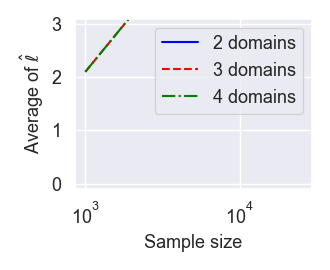
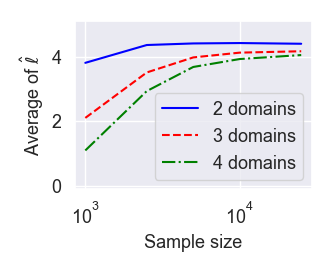
corrected scale of plots

diff --git a/experiments/results_l=5.py b/experiments/results_l=5.py
@@ -23,12 +23,12 @@ with open(f"results-paper/nr_doms=4_l={l}_d={d}.pkl", "rb") as f:
 nsamples_list = info2["metadata"]["nsamples_list"]
 avg_number_shared2, too_many_shared_rate2, mixing_error_rate2, graph_error_median2 = get_statistics(info2)
 avg_number_shared3, too_many_shared_rate3, mixing_error_rate3, graph_error_median3 = get_statistics(info3)
-avg_number_shared4, too_many_shared_rate4, mixing_error_rate4, graph_error_median4 = get_statistics(info3)
+avg_number_shared4, too_many_shared_rate4, mixing_error_rate4, graph_error_median4 = get_statistics(info4)
 
 # ===== PLOT =====
 plot(nsamples_list, avg_number_shared2, avg_number_shared3, avg_number_shared4,
                 ylabel="Average of $\hat{\ell}$",
-                path=f"results-paper/avg-shared-nodes_l={l}_d={d}.png", ylim=(-0.1,3.1))
+                path=f"results-paper/avg-shared-nodes_l={l}_d={d}.png", ylim=(-0.1,5.1))
 
 plot(nsamples_list, too_many_shared_rate2, too_many_shared_rate3, too_many_shared_rate4,
                 ylabel="Fraction with $\hat{\ell} > \ell$",
